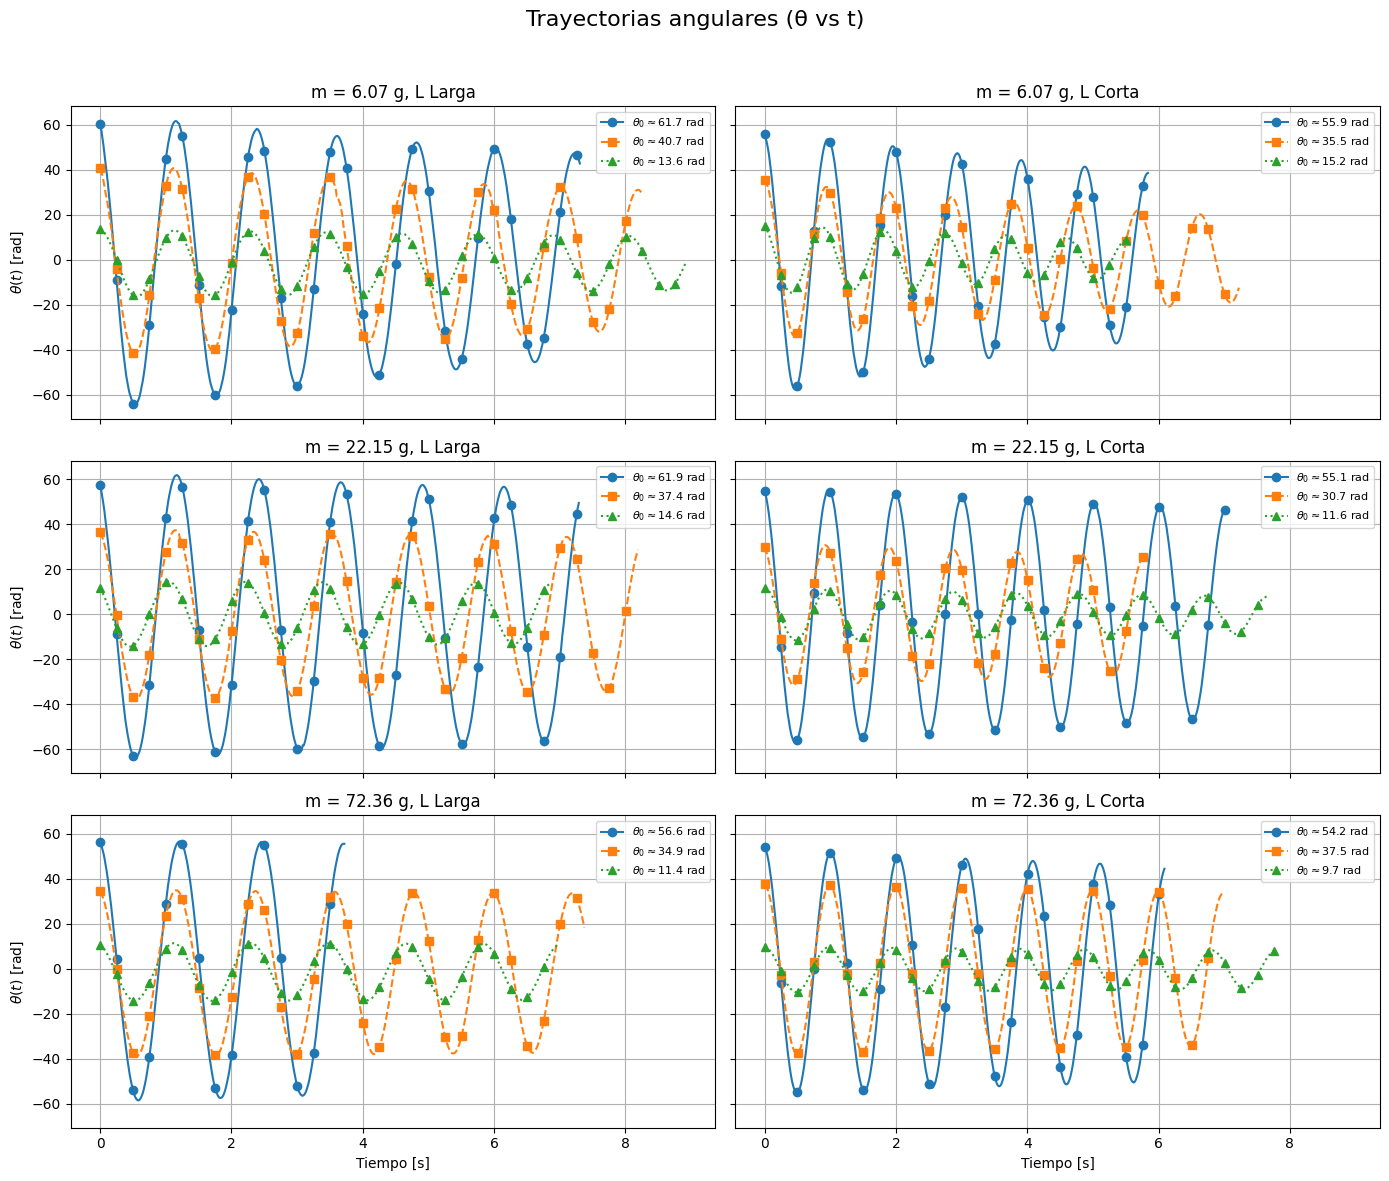
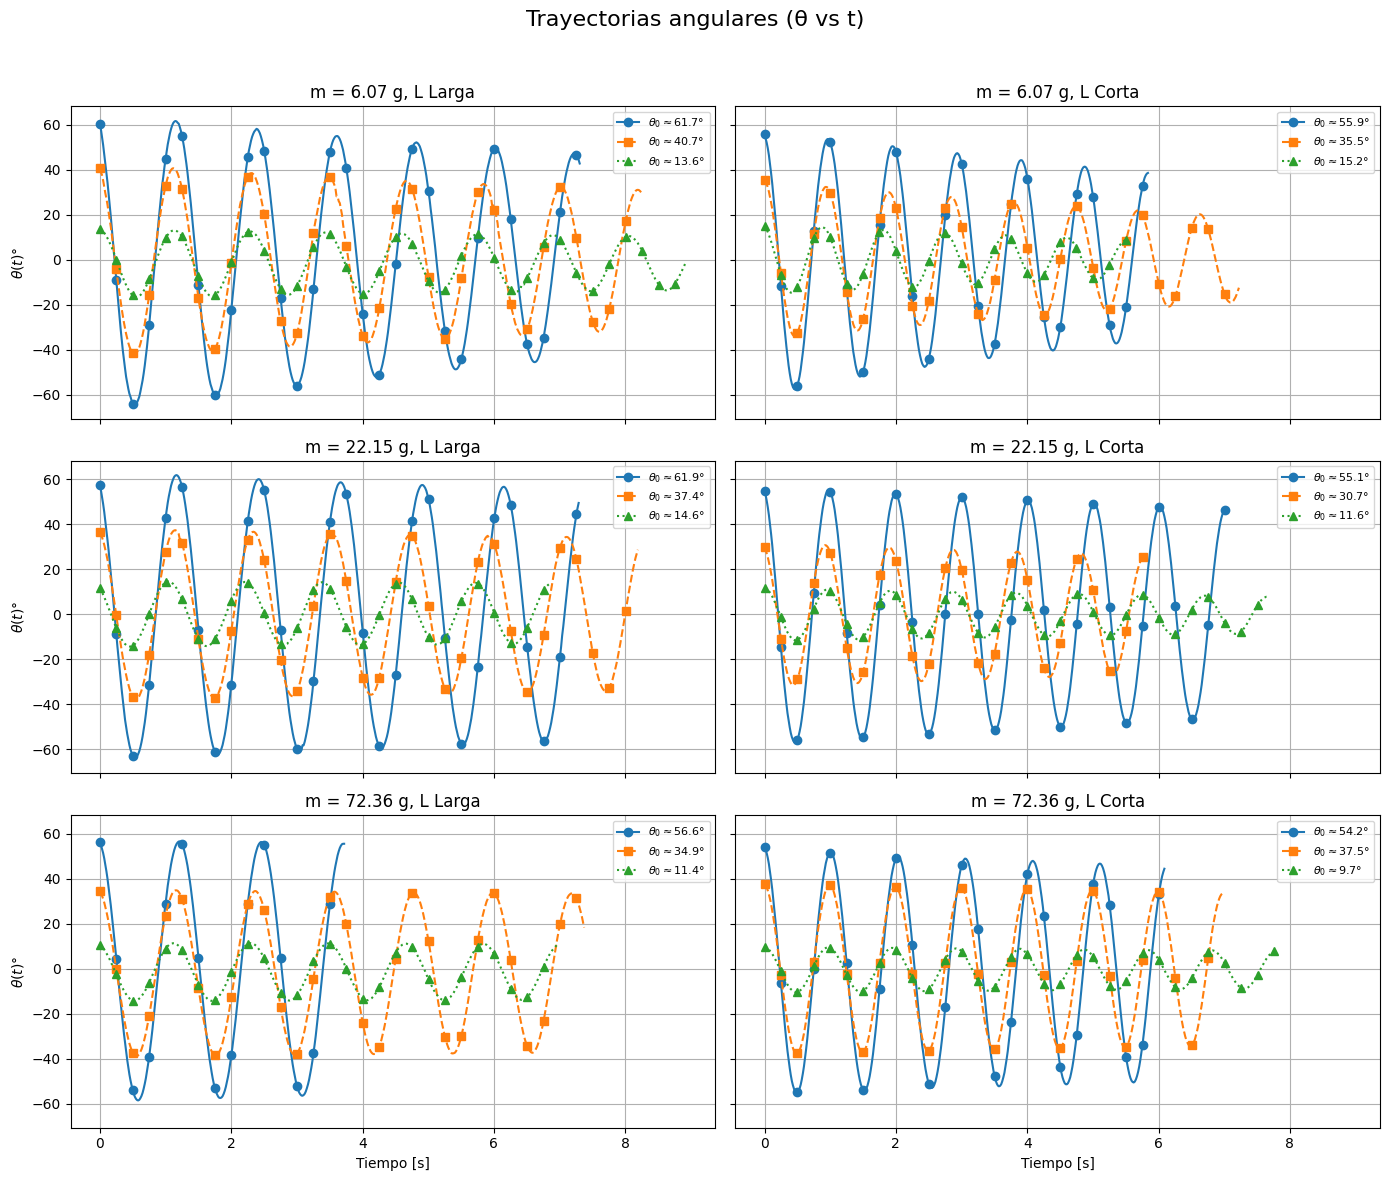
actualizo el rgaph que estaba mal hecho, de trayectorias

diff --git a/Code/graphs.py b/Code/graphs.py
@@ -2,6 +2,10 @@ import pandas as pd
 import numpy as np
 import matplotlib.pyplot as plt
 from calcs import DF, DF2, angularFreq, oscilationFreq, radius
+from scipy.signal import find_peaks
+from collections import defaultdict
+import matplotlib.cm as cm
+
 
 # DF por masas
 m1 = [df for df in DF if df.m == 6.07]
@@ -86,7 +90,7 @@ def plot_trajectories_grid():
             for k, df in enumerate(long_group):
                 style = styles[k % len(styles)]
                 marker = markers[k % len(markers)]
-                label = fr"$\theta_0 \approx {max(df['θ']):.1f}$ rad"
+                label = fr"$\theta_0 \approx {max(df['θ']):.1f}$°"
 
                 ax.plot(df['t'], df['θ'], linestyle=style, marker=marker,
                         label=label, markevery=15)
@@ -95,7 +99,7 @@ def plot_trajectories_grid():
             ax.set_title(f"m = {m} g, L {title}")
             ax.grid(True)
             if j == 0:
-                ax.set_ylabel(r"$\theta(t)$ [rad]")
+                ax.set_ylabel(r"$\theta(t)$°")
             if i == 2:
                 ax.set_xlabel("Tiempo [s]")
             ax.legend(fontsize=8)
@@ -104,5 +108,28 @@ def plot_trajectories_grid():
     plt.savefig("../Graphs/Trajectories_Grid.png", bbox_inches='tight')
     plt.close()
 
+def omega_vs_m_and_L_grados():
+    dfs = DF[:18]  # Solo los primeros 18
+    w = [angularFreq(df.assign(θ=np.deg2rad(df['θ'])), df.period) for df in dfs]
+    m = [df.m for df in dfs]  # masa en gramos
+    l = [radius(df) for df in dfs]  # longitud en cm
 
-plot_trajectories_grid()
+    fig, axs = plt.subplots(1, 2, figsize=(14, 6))
+
+    # ω vs masa
+    axs[0].plot(m, w, 'o', color='blue', markeredgecolor='black')
+    axs[0].set_xlabel("Masa [g]")
+    axs[0].set_ylabel("Frecuencia angular ω [rad/s]")
+    axs[0].set_title("ω vs masa")
+    axs[0].grid(True)
+
+    # ω vs longitud
+    axs[1].plot(l, w, 'o', color='green', markeredgecolor='black')
+    axs[1].set_xlabel("Longitud L [cm]")
+    axs[1].set_ylabel("Frecuencia angular ω [rad/s]")
+    axs[1].set_title("ω vs longitud")
+    axs[1].grid(True)
+
+    plt.tight_layout()
+    plt.savefig("../Graphs/OmegaVsMasaYLongitud.png")
+    plt.show()
